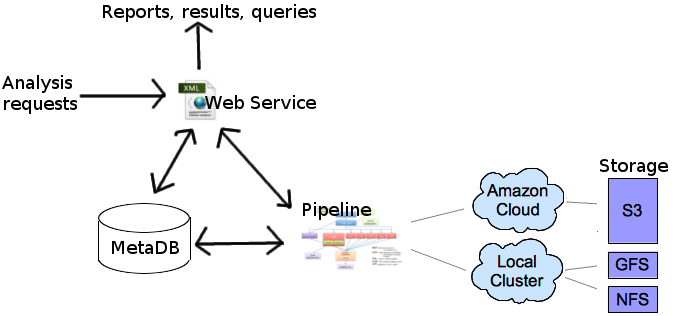
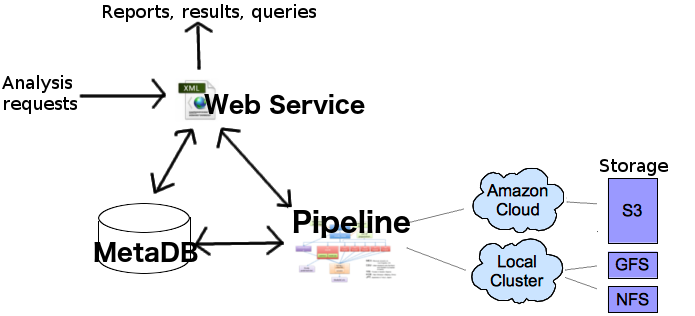
added breadcrumbs; fixed a few images; modified css to be slightly less ugly; added ds_store to gitignore

Changed region(s): [[0.423, 0.6266, 0.6043, 0.9114], [0.2719, 0.2848, 0.5439, 0.3703], [0.1209, 0.7405, 0.3022, 0.8544]]

diff --git a/_includes/social.html b/_includes/social.html
@@ -2,7 +2,7 @@
   {%- if site.dribbble_username -%}<li><a href="https://dribbble.com/{{ site.dribbble_username| cgi_escape | escape }}"><svg class="svg-icon"><use xlink:href="{{ '/assets/minima-social-icons.svg#dribbble' | relative_url }}"></use></svg> <span class="username">{{ site.dribbble_username| escape }}</span></a></li>{%- endif -%}
   {%- if site.facebook_username -%}<li><a href="https://www.facebook.com/{{ site.facebook_username| cgi_escape | escape }}"><svg class="svg-icon"><use xlink:href="{{ '/assets/minima-social-icons.svg#facebook' | relative_url }}"></use></svg> <span class="username">{{ site.facebook_username| escape }}</span></a></li>{%- endif -%}
   {%- if site.flickr_username -%}<li><a href="https://www.flickr.com/photos/{{ site.flickr_username| cgi_escape | escape }}"><svg class="svg-icon"><use xlink:href="{{ '/assets/minima-social-icons.svg#flickr' | relative_url }}"></use></svg> <span class="username">{{ site.flickr_username| escape }}</span></a></li>{%- endif -%}
-  {%- if site.github_username -%}<li><a href="https://github.com/{{ site.github_username| cgi_escape | escape }}"><svg class="svg-icon"><use xlink:href="{{ '/assets/minima-social-icons.svg#github' | relative_url }}"></use></svg> <span class="username">{{ site.github_username| escape }}</span></a></li>{%- endif -%}
+  {%- if site.github_username -%}<li><a href="https://github.com/{{ site.github_username | uri_escape }}"><svg class="svg-icon"><use xlink:href="{{ '/assets/minima-social-icons.svg#github' | relative_url }}"></use></svg> <span class="username">{{ site.github_username| escape }}</span></a></li>{%- endif -%}
   {%- if site.instagram_username -%}<li><a href="https://instagram.com/{{ site.instagram_username| cgi_escape | escape }}"><svg class="svg-icon"><use xlink:href="{{ '/assets/minima-social-icons.svg#instagram' | relative_url }}"></use></svg> <span class="username">{{ site.instagram_username| escape }}</span></a></li>{%- endif -%}
   {%- if site.linkedin_username -%}<li><a href="https://www.linkedin.com/in/{{ site.linkedin_username| cgi_escape | escape }}"><svg class="svg-icon"><use xlink:href="{{ '/assets/minima-social-icons.svg#linkedin' | relative_url }}"></use></svg> <span class="username">{{ site.linkedin_username| escape }}</span></a></li>{%- endif -%}
   {%- if site.pinterest_username -%}<li><a href="https://www.pinterest.com/{{ site.pinterest_username| cgi_escape | escape }}"><svg class="svg-icon"><use xlink:href="{{ '/assets/minima-social-icons.svg#pinterest' | relative_url }}"></use></svg> <span class="username">{{ site.pinterest_username| escape }}</span></a></li>{%- endif -%}

diff --git a/_layouts/page.html b/_layouts/page.html
@@ -1,6 +1,23 @@
 ---
 layout: default
 ---
+{% assign crumbs = page.url | remove:'/index.html' | split: '/' %}
+
+<a href="{{ "/" | relative_url }}">Home</a>
+{%- for crumb in crumbs offset: 1 -%}
+  {%- if forloop.last -%}
+> {{ crumb | replace:'-',' ' | remove:'.html' | capitalize }}
+  {%- else -%}
+    {%- assign crumb_limit = forloop.index | plus: 1 -%}
+    {%- capture hurl -%}
+      {%- for crumb in crumbs limit: crumb_limit -%}
+        {{ crumb | append: '/' }}
+      {%- endfor -%}
+    {%- endcapture -%}
+> <a href="{{ hurl | relative_url }}">{{ crumb | replace:'-',' ' | remove:'.html' | capitalize }}</a>
+  {% endif %}
+{% endfor %}
+
 <article class="post">
   {%- if page.title -%}
     <h1 class="page-heading">{{ page.title }}</h1>

diff --git a/_includes/header.html b/_includes/header.html
@@ -3,7 +3,7 @@
   <div class="wrapper">
     {%- assign default_paths = site.pages | map: "path" -%}
     {%- assign page_paths = site.header_pages | default: default_paths -%}
-    <a class="site-title" rel="author" href="{{ "/" | relative_url }}"><img src="{{ "/images/niassa.png" | relative_url }}" alt="{{ site.title | escape }}" title="{{ site.title | escape }}"/></a>
+    <a class="site-title" rel="author" href="{{ "/" | relative_url }}"><img src="{{ "/images/niassa.png" | relative_url }}" alt="{{ site.title | escape }}: {{site.tagline}}" title="{{ site.title | escape }}: {{site.tagline}}"/></a>
 
     {%- if page_paths -%}
       <nav class="site-nav">

diff --git a/_sass/minima/_layout.scss b/_sass/minima/_layout.scss
@@ -229,24 +229,24 @@
 .post-content {
   margin-bottom: $spacing-unit;
 
-  h2 {
-    @include relative-font-size(2);
+  h1 {
+    @include relative-font-size(1.8);
 
     @include media-query($on-laptop) {
       @include relative-font-size(1.75);
     }
   }
 
-  h3 {
-    @include relative-font-size(1.625);
+  h2 {
+    @include relative-font-size(1.5);
 
     @include media-query($on-laptop) {
       @include relative-font-size(1.375);
     }
   }
 
-  h4 {
-    @include relative-font-size(1.25);
+  h3 {
+    @include relative-font-size(1.15);
 
     @include media-query($on-laptop) {
       @include relative-font-size(1.125);

diff --git a/_includes/footer.html b/_includes/footer.html
@@ -9,10 +9,8 @@
       <div class="footer-col footer-col-1">
         <ul class="contact-list">
           <li class="p-name">
-            {%- if site.author -%}
-              {{ site.author | escape }}
-            {%- else -%}
-              {{ site.title | escape }}
+            {%- if site.author and site.author_url -%}
+              <a href="{{ site.author_url | uri_escape }}">{{ site.author | escape }}</a>
             {%- endif -%}
             </li>
             {%- if site.email -%}

diff --git a/_sass/minima/_base.scss b/_sass/minima/_base.scss
@@ -147,12 +147,18 @@ blockquote {
 /**
  * Code formatting
  */
-pre,
+pre {
+  @include relative-font-size(0.9375);
+  border: 1px solid $grey-color-light;
+  border-radius: 3px;
+  background-color: #fff;
+}
+
 code {
   @include relative-font-size(0.9375);
   border: 1px solid $grey-color-light;
   border-radius: 3px;
-  background-color: #eef;
+  background-color: #fff;
 }
 
 code {

diff --git a/_sass/minima/_syntax-highlighting.scss b/_sass/minima/_syntax-highlighting.scss
@@ -6,7 +6,7 @@
   @extend %vertical-rhythm;
 
   .highlighter-rouge & {
-    background: #eef;
+    background: #ffffff;
   }
 
   .c     { color: #998; font-style: italic } // Comment

diff --git a/about.md b/about.md
@@ -5,28 +5,36 @@ permalink: /about/
 nav: true
 ---
 
-Niassa began its life as the SeqWare project. The [SeqWare](http://seqware.io) 
-project was started in 2007 by Brian O'Connor at UCLA. 
-In 2011 Brian moved to OICR in Toronto, where SeqWare was adopted by the 
-analysis team for all production workflows and was the primary analysis system 
-until 2018. SeqWare was also used extensively in the 
+Niassa began its life as the SeqWare project. The [SeqWare](http://seqware.io)
+project was started in 2007 by Brian O'Connor at UCLA.
+In 2011 Brian moved to OICR in Toronto, where SeqWare was adopted by the
+analysis team for all production workflows and was the primary analysis system
+until 2018. SeqWare was also used extensively in the
 [PanCancer Analysis of Whole Genomes](http://docs.icgc.org/pcawg/) project.
 
-Niassa was forked from SeqWare in 2017 by the 
-[Genome Sequence Informatics](https://github.com/oicr-gsi) (GSI) team at 
-[Ontario Institute for Cancer Research](https://oicr.on.ca) in order to more 
-closely support some of its other infrastructure. Other open-source 
-infrastructure that integrates with Niassa includes 
-[Shesmu](https://github.com/oicr-gsi/shesmu), a decision-driven action launching 
-system, and [Cerberus](https://github.com/oicr-gsi/cerberus), a web service that 
-integrates data from laboratory information management systems like 
-[MISO](https://github.com/TGAC/miso-lims) and analysis engines like Niassa. 
+Niassa was forked from SeqWare in 2017 by the
+[Genome Sequence Informatics](https://github.com/oicr-gsi) (GSI) team at
+[Ontario Institute for Cancer Research](https://oicr.on.ca) in order to more
+closely support some of its other infrastructure. Other open-source
+infrastructure that integrates with Niassa includes
+[Shesmu](https://github.com/oicr-gsi/shesmu), a decision-driven action launching
+system, and [Cerberus](https://github.com/oicr-gsi/cerberus), a web service that
+integrates data from laboratory information management systems like
+[MISO](https://github.com/TGAC/miso-lims) and analysis engines like Niassa.
 
-Niassa is used by GSI to run all production analysis workflows and supports the 
-[OICR Genomics](https://genomics.oicr.on.ca) team, the [Translational Genomics Laboratory](https://labs.oicr.on.ca/translational-genomics-laboratory), 
-[OICR's collaborative research resources](https://oicr.on.ca/collaborative-research-resources/) 
+Niassa is used by GSI to run all production analysis workflows and supports the
+[OICR Genomics](https://genomics.oicr.on.ca) team, the [Translational Genomics Laboratory](https://labs.oicr.on.ca/translational-genomics-laboratory),
+[OICR's collaborative research resources](https://oicr.on.ca/collaborative-research-resources/)
 and the [Canadian Data Integration Centre](http://genome-cdic.ca/).
 
-Much of Niassa's underlying code remains the same as SeqWare and so we 
-gratefully thank [SeqWare contributors](http://seqware.github.io/partners/) for 
+Much of Niassa's underlying code remains the same as SeqWare and so we
+gratefully thank [SeqWare contributors](http://seqware.github.io/partners/) for
 their efforts.
+
+### About the name
+
+Niassa is an anglicization of
+[Ní-assa](https://en.wikipedia.org/wiki/Ness_(Irish_mythology)), a princess from
+Irish mythology whose name means "not easy; not gentle". Niassa is also a
+[province in Mozambique](https://en.wikipedia.org/wiki/Niassa_Province) (no
+relation).

diff --git a/2.0.2/index.md b/2.0.2/index.md
@@ -10,18 +10,28 @@ This is the core documentation for the Niassa project.
 * TOC
 {:toc}
 
-## Niassa Overview
+# Niassa Components
 
-Niassa currently provides 3 layers of infrastructure specifically designed to support the analysis necessary for sequencing technologies.
+Niassa currently provides 3 layers of infrastructure specifically designed to
+support the analysis necessary for sequencing technologies.
 
 <img width="600" src="{{ version_url }}/images/niassa_arch.png" alt="Niassa overall architecture"/>
 
-* [MetaDB]({{version_url}}/metadb): provides a common database to store metadata used by all components.
-* [Pipeline]({{version_url}}/pipeline): a workflow engine that is capable of wrapping and combining other tools (BFAST, BWA, SAMtools, etc) into complex pipelines, recording metadata about the analysis, and facilitates automation of pipelines based on metadata.
-* [Web Service]({{version_url}}/web-service): a programmatic API that lets people build new tools on top of the project
+Click on each component for lots and lots of documentation on each component.
+
+## [MetaDB]({{version_url}}/metadb)
+Provides a common database to store metadata used by all components.
+
+## [Pipeline]({{version_url}}/pipeline)
+A workflow engine capable of wrapping and combining other tools (BFAST, BWA, SAMtools, etc) into complex pipelines, recording metadata about the analysis, and facilitates automation of pipelines based on metadata.
+
+## [Web Service]({{version_url}}/web-service)
+A programmatic API that lets people build new tools on top of the project
 
 
-## Things of note
+# Reference Material
 
 * [Installation]({{version_url}}/installation)
 * [Command line interface (CLI)]({{version_url}}/CLI)
+* [Getting Started]({{version_url}}/getting-started)
+* [For Niassa Administrators]({{version_url}}/admins)

diff --git a/2.0.2/web-service/report.md b/2.0.2/web-service/report.md
@@ -8,13 +8,12 @@ title: Web service - Report Resources
 Reports are exclusively GET operations that query the state of the Metadata DB and amalgamate information from multiple sources within the MetadataDB and elsewhere (e.g. Server information). They are distinguished from /metadata/db resources when:
 
 * they involve multiple database joins. Populating the values of a particular row would not qualify. For example, displaying an IUS with its lane, processing events and samples would not be a report because all of the information can be acquired with single joins, but reporting all of the samples in a study would be a join of at least 3 tables so would qualify as a report.
-* the output format is intended to be more human readable and scriptable than JAXB's XML, e.g. CSV, JSON, or XML with an XSD. 
+* the output format is intended to be more human readable and scriptable than JAXB's XML, e.g. CSV, JSON, or XML with an XSD.
 
 For more information about each resource and the correct complete URI, please follow the link to the resource-specific page.
 
 {% assign wwwrs = site.pages | where: "www-bit", "report" %}
 | Method | URI | Description |
 |--------|-----|-------------|
-{% for pg in wwwrs %} |<a href="{{ pg.url }}" alt="{{ pg.title }}">{{ pg.method }}</a> | <a href="{{ pg.url }}" alt="{{ pg.title }}">{{ pg.uri }}</a> | {{pg.summary}} | 
+{% for pg in wwwrs %} |<a href="{{ pg.url | relative_url }}" alt="{{ pg.title }}">{{ pg.method }}</a> | <a href="{{ pg.url | relative_url}}" alt="{{ pg.title }}">{{ pg.uri }}</a> | {{pg.summary}} | 
 {% endfor %}
-

diff --git a/2.0.2/web-service/report/get-workflowrun.md b/2.0.2/web-service/report/get-workflowrun.md
@@ -1,5 +1,5 @@
 ---
-title: GET a workflow run report 
+title: GET a workflow run report
 uri: /reports/workflowruns/{workflowRunSWID}
 method: GET
 summary: Retrieves a single workflow run report, including input and output files, using its SeqWare accession.

diff --git a/2.0.2/web-service/db/resource-template.md b/2.0.2/web-service/db/resource-template.md
@@ -1,7 +1,5 @@
 {% include functions.liquid %}
 
-\> Back to [{{ page.www-bit}}]({{version_url}}/web-service/{{page.www-bit}})
-
 {{ include.summary }}
 
 ## Resource URL
